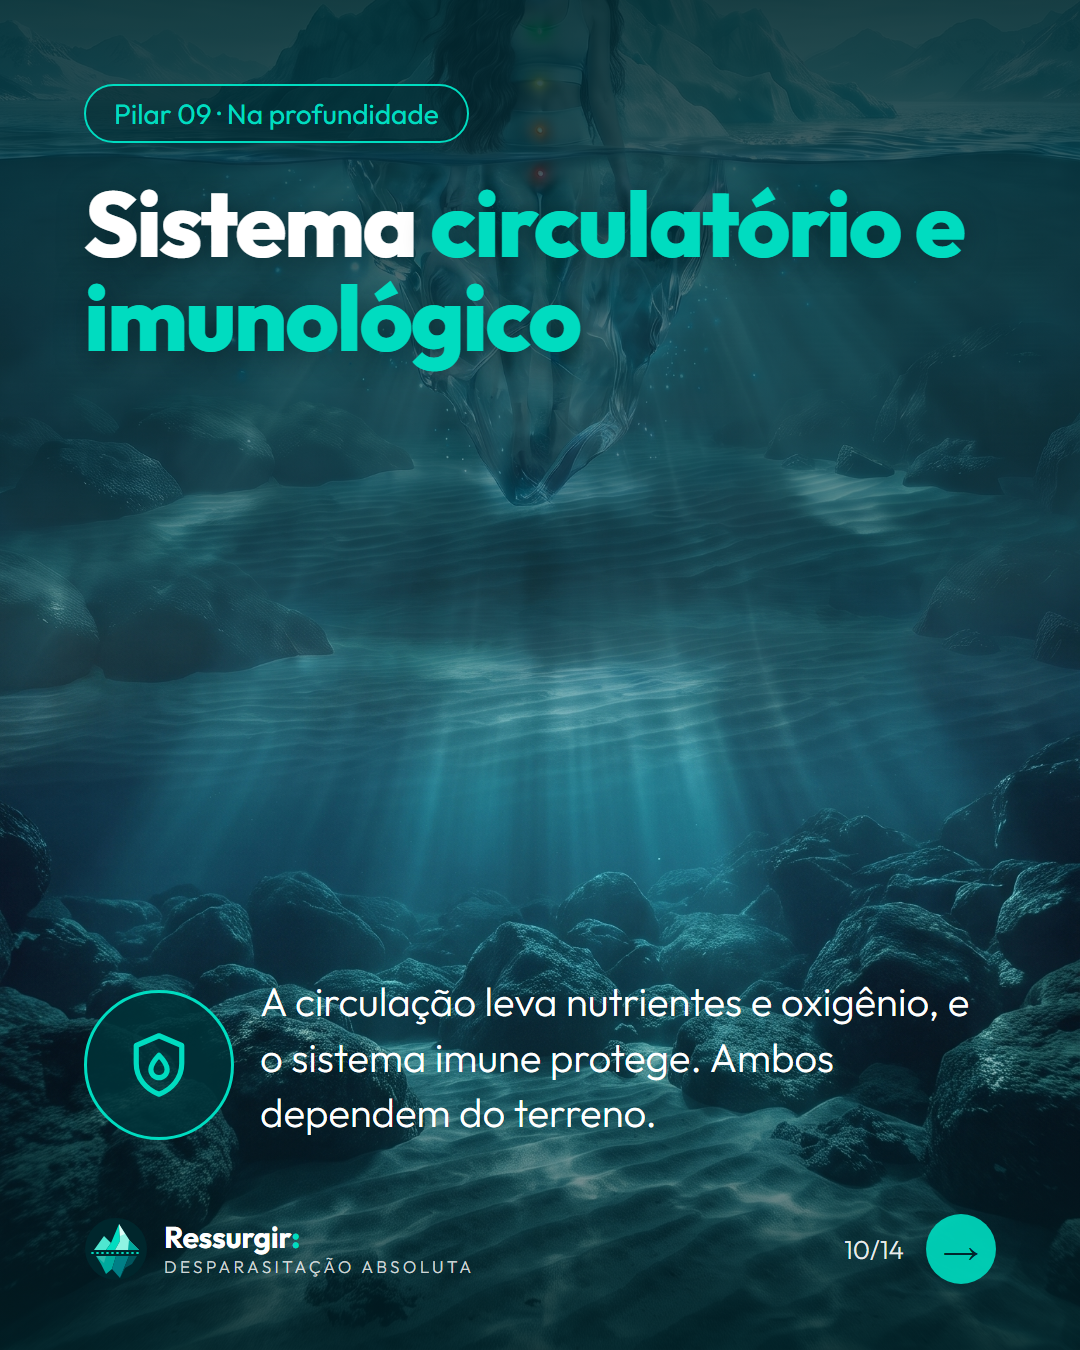
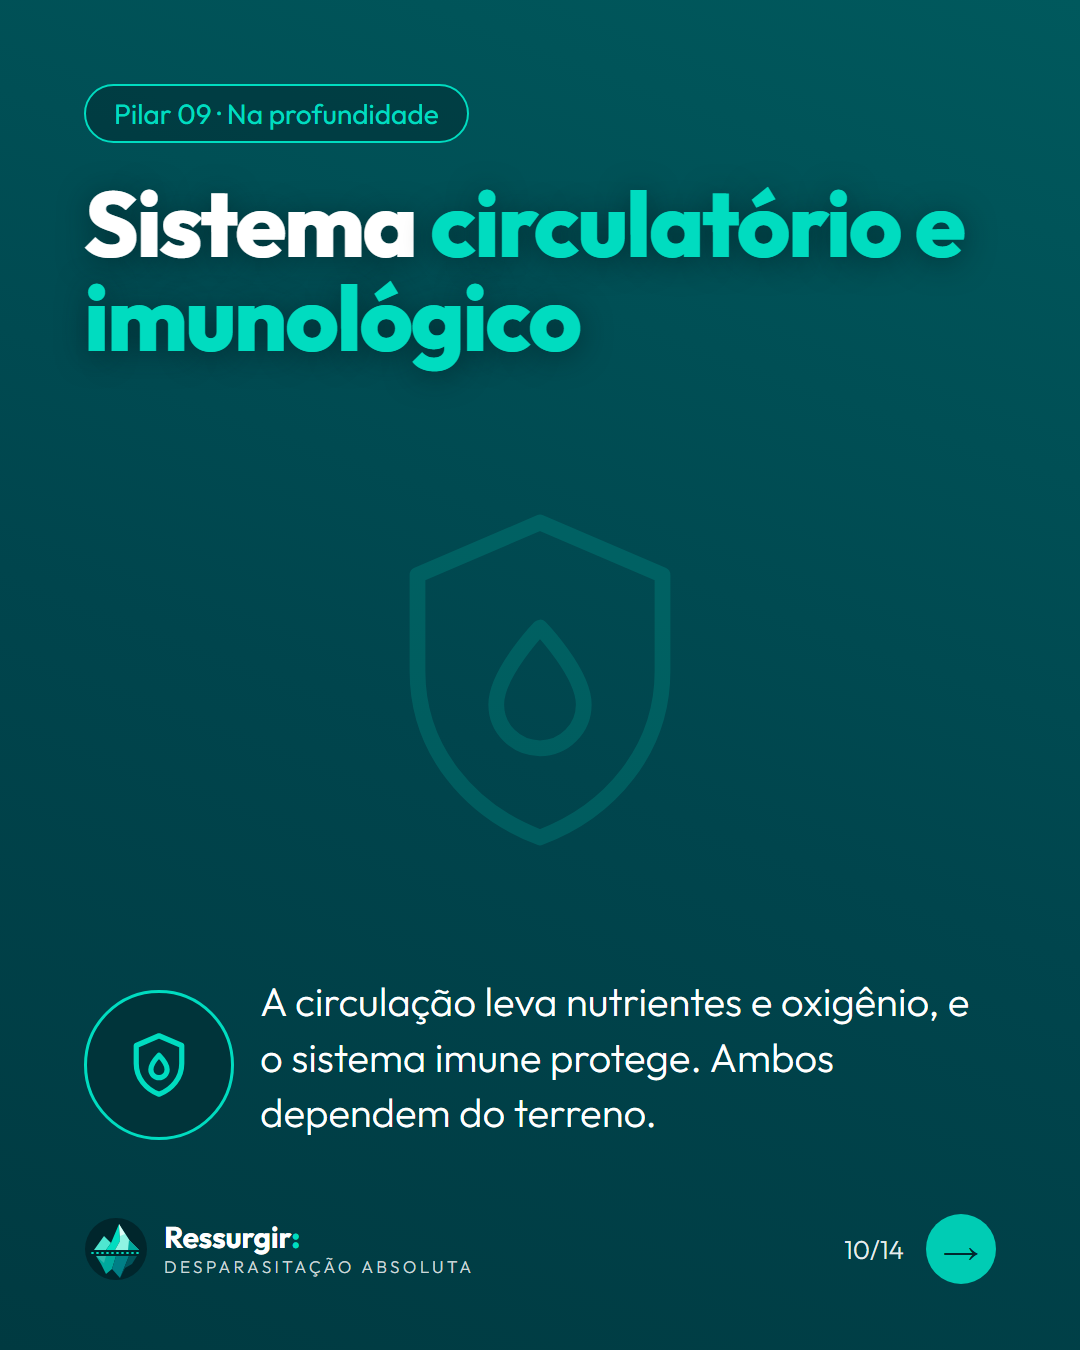
Carrossel: foto só no slide 1, texto fora do rosto; demais slides sem foto

diff --git a/carrossel/fonte/slide-08.html b/carrossel/fonte/slide-08.html
@@ -34,4 +34,4 @@ h1 em{font-style:normal;color:#00dcc0}
     <symbol id="i12" viewBox="0 0 24 24"><circle cx="12" cy="5" r="2.2"/><circle cx="5" cy="19" r="2.2"/><circle cx="12" cy="19" r="2.2"/><circle cx="19" cy="19" r="2.2"/><path d="M12 7.2V12M5 16.8V12h14v4.8M12 12v4.8"/></symbol>
   </defs>
 </svg>
-<div class="fundo" style="background:linear-gradient(180deg,rgba(0,38,44,.88) 0,rgba(0,38,44,.45) 36%,rgba(0,38,44,0) 58%),linear-gradient(0deg,rgba(0,30,35,.85) 0,rgba(0,30,35,0) 30%),url('file:///C:/Projetos/Ressurgir/assets/cena-mobile-final.jpg') center 52%/ 120% auto no-repeat,#00454d;"></div><div class="topo"><span class="chip">Pilar 07 · Na profundidade</span><h1 style="font-size:76px">Fungos, <em>parasitas, vírus, bactérias e vermes</em></h1></div><div class="icone" style="bottom:210px"><svg viewBox="0 0 24 24"><use href="#i7"/></svg></div><div class="corpo" style="bottom:210px;font-size:40px;max-width:760px;left:260px">Microrganismos fazem parte do terreno. O ponto é o equilíbrio entre eles e as defesas do corpo.</div><div class="rodape"><div class="marca"><img src="file:///C:/Projetos/Ressurgir/assets/logo-marca.svg"><span>Ressurgir<b>:</b><small>Desparasitação Absoluta</small></span></div><div class="dir">08/14<div class="seta">&rarr;</div></div></div>
+<div class="fundo" style="background:linear-gradient(200deg,#00595d 0%,#00454d 55%,#003a41 100%);"></div><div style="position:absolute;left:0;right:0;top:470px;display:grid;place-items:center;color:#00dcc0;opacity:.16"><svg viewBox="0 0 24 24" width="420" height="420" fill="none" stroke="currentColor" stroke-width=".9" stroke-linecap="round" stroke-linejoin="round"><use href="#i7"/></svg></div><div class="topo"><span class="chip">Pilar 07 · Na profundidade</span><h1 style="font-size:76px">Fungos, <em>parasitas, vírus, bactérias e vermes</em></h1></div><div class="icone" style="bottom:210px"><svg viewBox="0 0 24 24"><use href="#i7"/></svg></div><div class="corpo" style="bottom:210px;font-size:40px;max-width:760px;left:260px">Microrganismos fazem parte do terreno. O ponto é o equilíbrio entre eles e as defesas do corpo.</div><div class="rodape"><div class="marca"><img src="file:///C:/Projetos/Ressurgir/assets/logo-marca.svg"><span>Ressurgir<b>:</b><small>Desparasitação Absoluta</small></span></div><div class="dir">08/14<div class="seta">&rarr;</div></div></div>

diff --git a/carrossel/fonte/slide-10.html b/carrossel/fonte/slide-10.html
@@ -34,4 +34,4 @@ h1 em{font-style:normal;color:#00dcc0}
     <symbol id="i12" viewBox="0 0 24 24"><circle cx="12" cy="5" r="2.2"/><circle cx="5" cy="19" r="2.2"/><circle cx="12" cy="19" r="2.2"/><circle cx="19" cy="19" r="2.2"/><path d="M12 7.2V12M5 16.8V12h14v4.8M12 12v4.8"/></symbol>
   </defs>
 </svg>
-<div class="fundo" style="background:linear-gradient(180deg,rgba(0,38,44,.88) 0,rgba(0,38,44,.45) 36%,rgba(0,38,44,0) 58%),linear-gradient(0deg,rgba(0,30,35,.85) 0,rgba(0,30,35,0) 30%),url('file:///C:/Projetos/Ressurgir/assets/cena-mobile-final.jpg') center 100%/ 100% auto no-repeat,#00454d;"></div><div class="topo"><span class="chip">Pilar 09 · Na profundidade</span><h1 style="font-size:92px">Sistema <em>circulatório e imunológico</em></h1></div><div class="icone" style="bottom:210px"><svg viewBox="0 0 24 24"><use href="#i9"/></svg></div><div class="corpo" style="bottom:210px;font-size:40px;max-width:760px;left:260px">A circulação leva nutrientes e oxigênio, e o sistema imune protege. Ambos dependem do terreno.</div><div class="rodape"><div class="marca"><img src="file:///C:/Projetos/Ressurgir/assets/logo-marca.svg"><span>Ressurgir<b>:</b><small>Desparasitação Absoluta</small></span></div><div class="dir">10/14<div class="seta">&rarr;</div></div></div>
+<div class="fundo" style="background:linear-gradient(200deg,#00595d 0%,#00454d 55%,#003a41 100%);"></div><div style="position:absolute;left:0;right:0;top:470px;display:grid;place-items:center;color:#00dcc0;opacity:.16"><svg viewBox="0 0 24 24" width="420" height="420" fill="none" stroke="currentColor" stroke-width=".9" stroke-linecap="round" stroke-linejoin="round"><use href="#i9"/></svg></div><div class="topo"><span class="chip">Pilar 09 · Na profundidade</span><h1 style="font-size:92px">Sistema <em>circulatório e imunológico</em></h1></div><div class="icone" style="bottom:210px"><svg viewBox="0 0 24 24"><use href="#i9"/></svg></div><div class="corpo" style="bottom:210px;font-size:40px;max-width:760px;left:260px">A circulação leva nutrientes e oxigênio, e o sistema imune protege. Ambos dependem do terreno.</div><div class="rodape"><div class="marca"><img src="file:///C:/Projetos/Ressurgir/assets/logo-marca.svg"><span>Ressurgir<b>:</b><small>Desparasitação Absoluta</small></span></div><div class="dir">10/14<div class="seta">&rarr;</div></div></div>

diff --git a/carrossel/fonte/slide-12.html b/carrossel/fonte/slide-12.html
@@ -34,4 +34,4 @@ h1 em{font-style:normal;color:#00dcc0}
     <symbol id="i12" viewBox="0 0 24 24"><circle cx="12" cy="5" r="2.2"/><circle cx="5" cy="19" r="2.2"/><circle cx="12" cy="19" r="2.2"/><circle cx="19" cy="19" r="2.2"/><path d="M12 7.2V12M5 16.8V12h14v4.8M12 12v4.8"/></symbol>
   </defs>
 </svg>
-<div class="fundo" style="background:linear-gradient(180deg,rgba(0,38,44,.88) 0,rgba(0,38,44,.45) 36%,rgba(0,38,44,0) 58%),linear-gradient(0deg,rgba(0,30,35,.85) 0,rgba(0,30,35,0) 30%),url('file:///C:/Projetos/Ressurgir/assets/cena-mobile-final.jpg') center 30%/ 135% auto no-repeat,#00454d;"></div><div class="topo"><span class="chip">Pilar 11 · Na profundidade</span><h1 style="font-size:92px">Tríade <em>metabólica e hormonal</em></h1></div><div class="icone" style="bottom:210px"><svg viewBox="0 0 24 24"><use href="#i11"/></svg></div><div class="corpo" style="bottom:210px;font-size:40px;max-width:760px;left:260px">Metabolismo, glicemia e hormônios trabalham juntos e se influenciam, como sono, peso e disposição.</div><div class="rodape"><div class="marca"><img src="file:///C:/Projetos/Ressurgir/assets/logo-marca.svg"><span>Ressurgir<b>:</b><small>Desparasitação Absoluta</small></span></div><div class="dir">12/14<div class="seta">&rarr;</div></div></div>
+<div class="fundo" style="background:linear-gradient(200deg,#00595d 0%,#00454d 55%,#003a41 100%);"></div><div style="position:absolute;left:0;right:0;top:470px;display:grid;place-items:center;color:#00dcc0;opacity:.16"><svg viewBox="0 0 24 24" width="420" height="420" fill="none" stroke="currentColor" stroke-width=".9" stroke-linecap="round" stroke-linejoin="round"><use href="#i11"/></svg></div><div class="topo"><span class="chip">Pilar 11 · Na profundidade</span><h1 style="font-size:92px">Tríade <em>metabólica e hormonal</em></h1></div><div class="icone" style="bottom:210px"><svg viewBox="0 0 24 24"><use href="#i11"/></svg></div><div class="corpo" style="bottom:210px;font-size:40px;max-width:760px;left:260px">Metabolismo, glicemia e hormônios trabalham juntos e se influenciam, como sono, peso e disposição.</div><div class="rodape"><div class="marca"><img src="file:///C:/Projetos/Ressurgir/assets/logo-marca.svg"><span>Ressurgir<b>:</b><small>Desparasitação Absoluta</small></span></div><div class="dir">12/14<div class="seta">&rarr;</div></div></div>

diff --git a/carrossel/fonte/slide-02.html b/carrossel/fonte/slide-02.html
@@ -34,4 +34,4 @@ h1 em{font-style:normal;color:#00dcc0}
     <symbol id="i12" viewBox="0 0 24 24"><circle cx="12" cy="5" r="2.2"/><circle cx="5" cy="19" r="2.2"/><circle cx="12" cy="19" r="2.2"/><circle cx="19" cy="19" r="2.2"/><path d="M12 7.2V12M5 16.8V12h14v4.8M12 12v4.8"/></symbol>
   </defs>
 </svg>
-<div class="fundo" style="background:linear-gradient(180deg,rgba(0,38,44,.88) 0,rgba(0,38,44,.45) 36%,rgba(0,38,44,0) 58%),linear-gradient(0deg,rgba(0,30,35,.85) 0,rgba(0,30,35,0) 30%),url('file:///C:/Projetos/Ressurgir/assets/cena-mobile-final.jpg') center 14%/ 100% auto no-repeat,#00454d;"></div><div class="topo"><span class="chip">Pilar 01 · Na superfície</span><h1 style="font-size:108px">Genética <em>e epigenética</em></h1></div><div class="icone" style="bottom:210px"><svg viewBox="0 0 24 24"><use href="#i1"/></svg></div><div class="corpo" style="bottom:210px;font-size:40px;max-width:760px;left:260px">Os genes indicam tendências. Alimentação, ambiente e hábitos influenciam como elas se expressam.</div><div class="rodape"><div class="marca"><img src="file:///C:/Projetos/Ressurgir/assets/logo-marca.svg"><span>Ressurgir<b>:</b><small>Desparasitação Absoluta</small></span></div><div class="dir">02/14<div class="seta">&rarr;</div></div></div>
+<div class="fundo" style="background:linear-gradient(200deg,#00595d 0%,#00454d 55%,#003a41 100%);"></div><div style="position:absolute;left:0;right:0;top:470px;display:grid;place-items:center;color:#00dcc0;opacity:.16"><svg viewBox="0 0 24 24" width="420" height="420" fill="none" stroke="currentColor" stroke-width=".9" stroke-linecap="round" stroke-linejoin="round"><use href="#i1"/></svg></div><div class="topo"><span class="chip">Pilar 01 · Na superfície</span><h1 style="font-size:108px">Genética <em>e epigenética</em></h1></div><div class="icone" style="bottom:210px"><svg viewBox="0 0 24 24"><use href="#i1"/></svg></div><div class="corpo" style="bottom:210px;font-size:40px;max-width:760px;left:260px">Os genes indicam tendências. Alimentação, ambiente e hábitos influenciam como elas se expressam.</div><div class="rodape"><div class="marca"><img src="file:///C:/Projetos/Ressurgir/assets/logo-marca.svg"><span>Ressurgir<b>:</b><small>Desparasitação Absoluta</small></span></div><div class="dir">02/14<div class="seta">&rarr;</div></div></div>

diff --git a/carrossel/fonte/slide-04.html b/carrossel/fonte/slide-04.html
@@ -34,4 +34,4 @@ h1 em{font-style:normal;color:#00dcc0}
     <symbol id="i12" viewBox="0 0 24 24"><circle cx="12" cy="5" r="2.2"/><circle cx="5" cy="19" r="2.2"/><circle cx="12" cy="19" r="2.2"/><circle cx="19" cy="19" r="2.2"/><path d="M12 7.2V12M5 16.8V12h14v4.8M12 12v4.8"/></symbol>
   </defs>
 </svg>
-<div class="fundo" style="background:linear-gradient(180deg,rgba(0,38,44,.88) 0,rgba(0,38,44,.45) 36%,rgba(0,38,44,0) 58%),linear-gradient(0deg,rgba(0,30,35,.85) 0,rgba(0,30,35,0) 30%),url('file:///C:/Projetos/Ressurgir/assets/cena-mobile-final.jpg') center 0%/ 114% auto no-repeat,#00454d;"></div><div class="topo"><span class="chip">Pilar 03 · Na superfície</span><h1 style="font-size:92px">Geopatologias <em>e toxinas ambientais</em></h1></div><div class="icone" style="bottom:210px"><svg viewBox="0 0 24 24"><use href="#i3"/></svg></div><div class="corpo" style="bottom:210px;font-size:40px;max-width:760px;left:260px">Poluentes, mofo e produtos químicos de onde se vive e trabalha também entram na conta.</div><div class="rodape"><div class="marca"><img src="file:///C:/Projetos/Ressurgir/assets/logo-marca.svg"><span>Ressurgir<b>:</b><small>Desparasitação Absoluta</small></span></div><div class="dir">04/14<div class="seta">&rarr;</div></div></div>
+<div class="fundo" style="background:linear-gradient(200deg,#00595d 0%,#00454d 55%,#003a41 100%);"></div><div style="position:absolute;left:0;right:0;top:470px;display:grid;place-items:center;color:#00dcc0;opacity:.16"><svg viewBox="0 0 24 24" width="420" height="420" fill="none" stroke="currentColor" stroke-width=".9" stroke-linecap="round" stroke-linejoin="round"><use href="#i3"/></svg></div><div class="topo"><span class="chip">Pilar 03 · Na superfície</span><h1 style="font-size:92px">Geopatologias <em>e toxinas ambientais</em></h1></div><div class="icone" style="bottom:210px"><svg viewBox="0 0 24 24"><use href="#i3"/></svg></div><div class="corpo" style="bottom:210px;font-size:40px;max-width:760px;left:260px">Poluentes, mofo e produtos químicos de onde se vive e trabalha também entram na conta.</div><div class="rodape"><div class="marca"><img src="file:///C:/Projetos/Ressurgir/assets/logo-marca.svg"><span>Ressurgir<b>:</b><small>Desparasitação Absoluta</small></span></div><div class="dir">04/14<div class="seta">&rarr;</div></div></div>

diff --git a/carrossel/fonte/slide-06.html b/carrossel/fonte/slide-06.html
@@ -34,4 +34,4 @@ h1 em{font-style:normal;color:#00dcc0}
     <symbol id="i12" viewBox="0 0 24 24"><circle cx="12" cy="5" r="2.2"/><circle cx="5" cy="19" r="2.2"/><circle cx="12" cy="19" r="2.2"/><circle cx="19" cy="19" r="2.2"/><path d="M12 7.2V12M5 16.8V12h14v4.8M12 12v4.8"/></symbol>
   </defs>
 </svg>
-<div class="fundo" style="background:linear-gradient(180deg,rgba(0,38,44,.88) 0,rgba(0,38,44,.45) 36%,rgba(0,38,44,0) 58%),linear-gradient(0deg,rgba(0,30,35,.85) 0,rgba(0,30,35,0) 30%),url('file:///C:/Projetos/Ressurgir/assets/cena-mobile-final.jpg') center 38%/ 110% auto no-repeat,#00454d;"></div><div class="topo"><span class="chip">Pilar 05 · Na profundidade</span><h1 style="font-size:108px">Metais <em>tóxicos</em></h1></div><div class="icone" style="bottom:210px"><svg viewBox="0 0 24 24"><use href="#i5"/></svg></div><div class="corpo" style="bottom:210px;font-size:40px;max-width:760px;left:260px">Metais como mercúrio e chumbo podem se acumular por alimentos, água e exposição no trabalho.</div><div class="rodape"><div class="marca"><img src="file:///C:/Projetos/Ressurgir/assets/logo-marca.svg"><span>Ressurgir<b>:</b><small>Desparasitação Absoluta</small></span></div><div class="dir">06/14<div class="seta">&rarr;</div></div></div>
+<div class="fundo" style="background:linear-gradient(200deg,#00595d 0%,#00454d 55%,#003a41 100%);"></div><div style="position:absolute;left:0;right:0;top:470px;display:grid;place-items:center;color:#00dcc0;opacity:.16"><svg viewBox="0 0 24 24" width="420" height="420" fill="none" stroke="currentColor" stroke-width=".9" stroke-linecap="round" stroke-linejoin="round"><use href="#i5"/></svg></div><div class="topo"><span class="chip">Pilar 05 · Na profundidade</span><h1 style="font-size:108px">Metais <em>tóxicos</em></h1></div><div class="icone" style="bottom:210px"><svg viewBox="0 0 24 24"><use href="#i5"/></svg></div><div class="corpo" style="bottom:210px;font-size:40px;max-width:760px;left:260px">Metais como mercúrio e chumbo podem se acumular por alimentos, água e exposição no trabalho.</div><div class="rodape"><div class="marca"><img src="file:///C:/Projetos/Ressurgir/assets/logo-marca.svg"><span>Ressurgir<b>:</b><small>Desparasitação Absoluta</small></span></div><div class="dir">06/14<div class="seta">&rarr;</div></div></div>

diff --git a/carrossel/fonte/slide-01.html b/carrossel/fonte/slide-01.html
@@ -34,4 +34,4 @@ h1 em{font-style:normal;color:#00dcc0}
     <symbol id="i12" viewBox="0 0 24 24"><circle cx="12" cy="5" r="2.2"/><circle cx="5" cy="19" r="2.2"/><circle cx="12" cy="19" r="2.2"/><circle cx="19" cy="19" r="2.2"/><path d="M12 7.2V12M5 16.8V12h14v4.8M12 12v4.8"/></symbol>
   </defs>
 </svg>
-<div class="fundo" style="background:linear-gradient(180deg,rgba(0,38,44,.9) 0,rgba(0,38,44,.55) 38%,rgba(0,38,44,0) 62%),url('file:///C:/Projetos/Ressurgir/assets/cena-mobile-final.jpg') center 18%/ 118% auto no-repeat,#00454d;"></div><div class="topo" style="text-align:center;top:70px"><div style="font-size:54px;font-weight:700;letter-spacing:-.02em">Ressurgir<span style="color:#00dcc0">:</span></div><div style="font-size:26px;font-weight:300;letter-spacing:.22em;text-transform:uppercase;opacity:.85;margin-top:4px">Desparasitação Absoluta</div><div style="margin-top:34px"><span class="chip">Terreno Biológico</span></div><h1 style="font-size:104px;font-weight:300;margin-top:26px">Os <b style="font-weight:800;color:#00dcc0">12 pilares</b><br>do terreno biológico</h1></div><div class="rodape" style="justify-content:flex-end"><div class="dir">Deslize<div class="seta">&rarr;</div></div></div>
+<div class="fundo" style="background:linear-gradient(180deg,rgba(0,38,44,.95) 0,rgba(0,38,44,.8) 24%,rgba(0,38,44,.25) 40%,rgba(0,38,44,0) 48%),linear-gradient(0deg,rgba(0,30,35,.7) 0,rgba(0,30,35,0) 20%),url('file:///C:/Projetos/Ressurgir/assets/cena-mobile-final.jpg') center 150px/ 1080px auto no-repeat,#5aa9a6;"></div><div class="topo" style="text-align:center;top:70px"><div style="font-size:54px;font-weight:700;letter-spacing:-.02em">Ressurgir<span style="color:#00dcc0">:</span></div><div style="font-size:26px;font-weight:300;letter-spacing:.22em;text-transform:uppercase;opacity:.85;margin-top:4px">Desparasitação Absoluta</div><div style="margin-top:34px"><span class="chip">Terreno Biológico</span></div><h1 style="font-size:104px;font-weight:300;margin-top:26px">Os <b style="font-weight:800;color:#00dcc0">12 pilares</b><br>do terreno biológico</h1></div><div class="rodape" style="justify-content:flex-end"><div class="dir">Deslize<div class="seta">&rarr;</div></div></div>

diff --git a/carrossel/gerar.py b/carrossel/gerar.py
@@ -26,6 +26,7 @@ NOMES = [
 ]
 assert len(TEXTOS) == 12 and len(NOMES) == 12
 TOTAL = 14
+USAR_FOTOS = False  # mude para True quando as fotos dos slides de imagem estiverem prontas
 
 # recortes (deslocamento vertical em % da cena mobile, zoom) para os slides de imagem
 RECORTES = {1: (14, 1.0), 3: (0, 1.15), 5: (38, 1.1), 7: (52, 1.2), 9: (100, 1.0), 11: (30, 1.35)}
@@ -99,8 +100,8 @@ corpo = (
     '<h1 style="font-size:104px;font-weight:300;margin-top:26px">Os <b style="font-weight:800;color:#00dcc0">12 pilares</b><br>do terreno biológico</h1></div>'
     '<div class="rodape" style="justify-content:flex-end"><div class="dir">Deslize<div class="seta">&rarr;</div></div></div>'
 )
-fundo = (f"background:linear-gradient(180deg,rgba(0,38,44,.9) 0,rgba(0,38,44,.55) 38%,rgba(0,38,44,0) 62%),"
-         f"url('file:///{foto}') center 18%/ 118% auto no-repeat,#00454d;")
+fundo = (f"background:linear-gradient(180deg,rgba(0,38,44,.95) 0,rgba(0,38,44,.8) 24%,rgba(0,38,44,.25) 40%,rgba(0,38,44,0) 48%),linear-gradient(0deg,rgba(0,30,35,.7) 0,rgba(0,30,35,0) 20%),"
+         f"url('file:///{foto}') center 150px/ 1080px auto no-repeat,#5aa9a6;")
 slides.append(pagina(corpo, fundo))
 
 for i in range(12):
@@ -113,10 +114,16 @@ for i in range(12):
     icone = f'<div class="icone" style="bottom:210px"><svg viewBox="0 0 24 24"><use href="#i{i + 1}"/></svg></div>'
     if (i + 1) % 2:  # ímpares: slide de imagem
         y, z = RECORTES[i + 1]
-        fundo = (f"background:linear-gradient(180deg,rgba(0,38,44,.88) 0,rgba(0,38,44,.45) 36%,rgba(0,38,44,0) 58%),"
-                 f"linear-gradient(0deg,rgba(0,30,35,.85) 0,rgba(0,30,35,0) 30%),{cena(y, z)},#00454d;")
+        if USAR_FOTOS:
+            fundo = (f"background:linear-gradient(180deg,rgba(0,38,44,.88) 0,rgba(0,38,44,.45) 36%,rgba(0,38,44,0) 58%),"
+                     f"linear-gradient(0deg,rgba(0,30,35,.85) 0,rgba(0,30,35,0) 30%),{cena(y, z)},#00454d;")
+            vazio = ""
+        else:  # sem foto: fundo liso com o ícone grande, pronto para receber a imagem depois
+            fundo = "background:linear-gradient(200deg,#00595d 0%,#00454d 55%,#003a41 100%);"
+            vazio = (f'<div style="position:absolute;left:0;right:0;top:470px;display:grid;place-items:center;color:#00dcc0;opacity:.16">'
+                     f'<svg viewBox="0 0 24 24" width="420" height="420" fill="none" stroke="currentColor" stroke-width=".9" stroke-linecap="round" stroke-linejoin="round"><use href="#i{i + 1}"/></svg></div>')
         sub = (f'<div class="corpo" style="bottom:210px;font-size:40px;max-width:760px;left:260px">{texto}</div>')
-        slides.append(pagina(cab + icone + sub + rodape(n), fundo))
+        slides.append(pagina(vazio + cab + icone + sub + rodape(n), fundo))
     else:  # pares: slide de texto
         fundo = "background:linear-gradient(160deg,#00454d 0%,#00595d 55%,#007a78 100%);"
         grande = f'<div class="num">{i + 1:02d}</div>'
